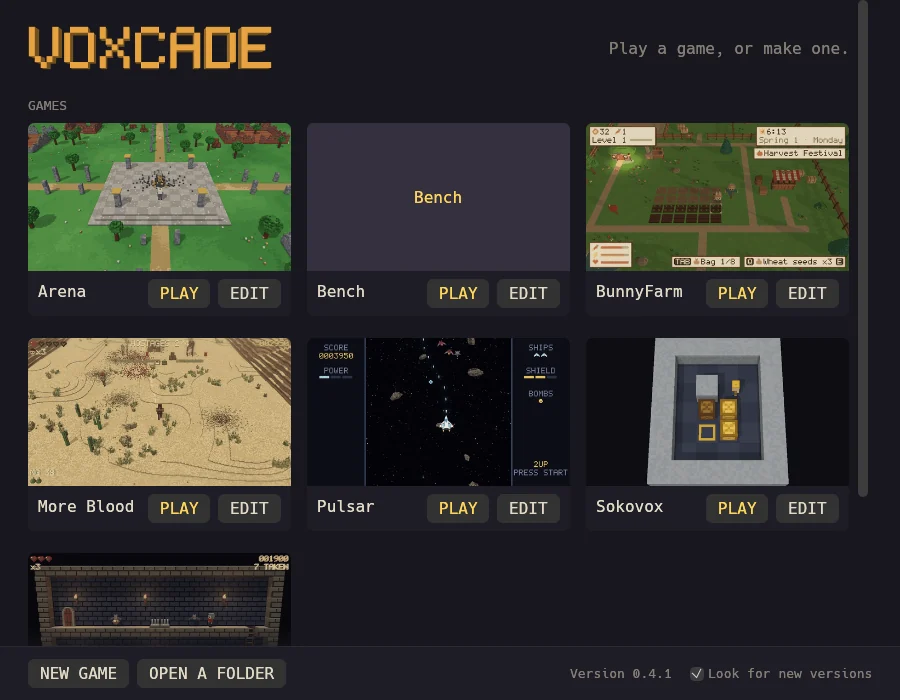
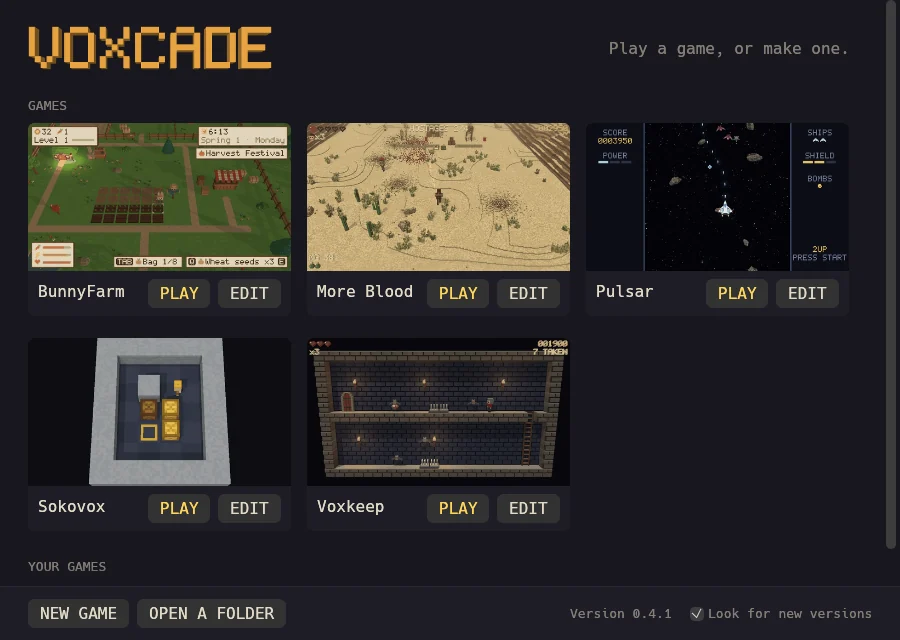
Five games: the Arena is no game to show

diff --git a/de/blog/0.4.1.html b/de/blog/0.4.1.html
@@ -4,7 +4,7 @@
 <meta charset="utf-8">
 <meta name="viewport" content="width=device-width, initial-scale=1">
 <title>Voxcade 0.4.1, die erste Version · Voxcade</title>
-<meta name="description" content="Sechs Spiele und die Werkstatt für eigene, für Windows und Linux: entpacken, starten, spielen.">
+<meta name="description" content="Fünf Spiele und die Werkstatt für eigene, für Windows und Linux: entpacken, starten, spielen.">
 <meta name="color-scheme" content="dark">
 <meta name="theme-color" content="#050509">
 <link rel="canonical" href="https://voxca.de/de/blog/0.4.1.html">
@@ -14,7 +14,7 @@
 <meta property="og:type" content="article">
 <meta property="og:site_name" content="Voxcade">
 <meta property="og:title" content="Voxcade 0.4.1, die erste Version · Voxcade">
-<meta property="og:description" content="Sechs Spiele und die Werkstatt für eigene, für Windows und Linux: entpacken, starten, spielen.">
+<meta property="og:description" content="Fünf Spiele und die Werkstatt für eigene, für Windows und Linux: entpacken, starten, spielen.">
 <meta property="og:url" content="https://voxca.de/de/blog/0.4.1.html">
 <meta property="og:locale" content="de_DE">
 <meta property="og:image" content="https://voxca.de/assets/img/og.png">
@@ -44,10 +44,10 @@
   <article class="wrap post">
     <p class="post-date"><a href="/de/blog/">Blog</a> · <time datetime="2026-11-10">10. November 2026</time></p>
     <h1>Voxcade 0.4.1, die erste Version</h1>
-    <p class="lead">Sechs Spiele und die Werkstatt für eigene, für Windows und Linux: entpacken, starten, spielen.</p>
-<p>Voxcade verlässt zum ersten Mal die Werkstatt. Version 0.4.1 ist ein Ordner mit sechs Spielen und allem, um eigene zu machen. Installieren musst du nichts: <a href="/de/#download">herunterladen</a>, entpacken und Voxcade doppelklicken. <a href="/de/install.html">So installierst du es</a> zeigt jeden Schritt, und der <a href="/de/quickstart.html">Schnellstart</a> bringt dich in fünf Minuten zu deinem ersten eigenen Spiel.</p>
+    <p class="lead">Fünf Spiele und die Werkstatt für eigene, für Windows und Linux: entpacken, starten, spielen.</p>
+<p>Voxcade verlässt zum ersten Mal die Werkstatt. Version 0.4.1 ist ein Ordner mit fünf Spielen und allem, um eigene zu machen. Installieren musst du nichts: <a href="/de/#download">herunterladen</a>, entpacken und Voxcade doppelklicken. <a href="/de/install.html">So installierst du es</a> zeigt jeden Schritt, und der <a href="/de/quickstart.html">Schnellstart</a> bringt dich in fünf Minuten zu deinem ersten eigenen Spiel.</p>
 <h2>Was drin ist</h2>
-<ul class="points"><li><strong>Der Launcher</strong>: Starte Voxcade, und es zeigt die Spiele. PLAY startet eins, EDIT öffnet es in der IDE, der Werkstatt, in der Spiele entstehen, und NEW GAME beginnt ein eigenes aus einer Vorlage: Jump &amp; Run, Shooter oder leer.</li><li><strong>Sechs Spiele</strong>, jedes ein Ordner aus Lua und Voxeln: More Blood (ein Run-and-Gun-Shooter, mit Pixel-Blut), Voxkeep (ein Jump &amp; Run in einer Burg bei Nacht), Sokovox (Sokoban mit den Microban-Rätseln von David W. Skinner), Pulsar (ein Weltraum-Shooter im Takt der Musik, zu zweit), BunnyFarm (ein Farmspiel) und die Arena, ein Hof zum Zerlegen. Jedes zeigt beim Start seine Tasten, für Tastatur oder Gamepad, je nachdem, womit du spielst.</li><li><strong>Die IDE</strong>: der Code, mit den Namen der API beim Tippen angeboten, das Spiel läuft gleich daneben, seine Fehler zeigen auf die Zeile; Szenarien starten einen Lauf an jeder Stelle; HELP zeigt die Lua-API an Beispielen; BUILD packt ein Spiel zum Weitergeben. Editoren für Voxel-Modelle und für Level aus Voxel-Blöcken gehören dazu.</li><li><strong>Zusammen spielen</strong>: mehrere an einem Bildschirm, im Heimnetz und übers Internet mit einem Code aus sechs Zeichen (IM INTERNET ÖFFNEN, dann BEITRETEN und CODE EINGEBEN). Keine Ports zu öffnen; Freunde können einem laufenden Spiel beitreten.</li><li><strong>Neue Versionen von selbst</strong>: Der Launcher meldet, wenn es eine gibt, und UPDATE NOW holt sie, prüft sie und setzt sie ein. Deine Spiele, Einstellungen und Spielstände bleiben.</li><li><strong>Sprachen</strong>: Die Menüs der Spiele sprechen Deutsch, Englisch und Französisch und richten sich nach deinem System; BunnyFarm spricht alle drei durchgehend. Der Launcher und die IDE sind auf Englisch.</li></ul>
+<ul class="points"><li><strong>Der Launcher</strong>: Starte Voxcade, und es zeigt die Spiele. PLAY startet eins, EDIT öffnet es in der IDE, der Werkstatt, in der Spiele entstehen, und NEW GAME beginnt ein eigenes aus einer Vorlage: Jump &amp; Run, Shooter oder leer.</li><li><strong>Fünf Spiele</strong>, jedes ein Ordner aus Lua und Voxeln: More Blood (ein Run-and-Gun-Shooter, mit Pixel-Blut), Voxkeep (ein Jump &amp; Run in einer Burg bei Nacht), Sokovox (Sokoban mit den Microban-Rätseln von David W. Skinner), Pulsar (ein Weltraum-Shooter im Takt der Musik, zu zweit) und BunnyFarm (ein Farmspiel). Jedes zeigt beim Start seine Tasten, für Tastatur oder Gamepad, je nachdem, womit du spielst.</li><li><strong>Die IDE</strong>: der Code, mit den Namen der API beim Tippen angeboten, das Spiel läuft gleich daneben, seine Fehler zeigen auf die Zeile; Szenarien starten einen Lauf an jeder Stelle; HELP zeigt die Lua-API an Beispielen; BUILD packt ein Spiel zum Weitergeben. Editoren für Voxel-Modelle und für Level aus Voxel-Blöcken gehören dazu.</li><li><strong>Zusammen spielen</strong>: mehrere an einem Bildschirm, im Heimnetz und übers Internet mit einem Code aus sechs Zeichen (IM INTERNET ÖFFNEN, dann BEITRETEN und CODE EINGEBEN). Keine Ports zu öffnen; Freunde können einem laufenden Spiel beitreten.</li><li><strong>Neue Versionen von selbst</strong>: Der Launcher meldet, wenn es eine gibt, und UPDATE NOW holt sie, prüft sie und setzt sie ein. Deine Spiele, Einstellungen und Spielstände bleiben.</li><li><strong>Sprachen</strong>: Die Menüs der Spiele sprechen Deutsch, Englisch und Französisch und richten sich nach deinem System; BunnyFarm spricht alle drei durchgehend. Der Launcher und die IDE sind auf Englisch.</li></ul>
 <h2>Gut zu wissen</h2>
 <ul class="points"><li><strong>Windows</strong> warnt vielleicht, es habe deinen PC geschützt: Das Programm ist noch nicht signiert. Wähle <em>Weitere Informationen</em>, dann <em>Trotzdem ausführen</em>.</li><li><strong>Linux</strong> braucht Vulkan-Grafiktreiber und ein aktuelles System (Ubuntu 24.04, Linux Mint 22, Fedora 40, Debian 13 oder neuer).</li><li><strong>macOS</strong> ist in dieser Version nicht dabei.</li><li>Ein Spiel übers Internet, das keine direkte Verbindung findet, läuft über unser Relay und kann ab und zu kurz stocken.</li></ul>
 <p>Die Lizenzen der Bibliotheken, die im Programm stecken, stehen in <code>THIRD-PARTY-LICENSES.txt</code> im Ordner.</p>

diff --git a/blog/0.4.1.html b/blog/0.4.1.html
@@ -4,7 +4,7 @@
 <meta charset="utf-8">
 <meta name="viewport" content="width=device-width, initial-scale=1">
 <title>Voxcade 0.4.1, the first release · Voxcade</title>
-<meta name="description" content="Six games and the workshop to make your own, for Windows and Linux: unpack it, start it, play.">
+<meta name="description" content="Five games and the workshop to make your own, for Windows and Linux: unpack it, start it, play.">
 <meta name="color-scheme" content="dark">
 <meta name="theme-color" content="#050509">
 <link rel="canonical" href="https://voxca.de/blog/0.4.1.html">
@@ -14,7 +14,7 @@
 <meta property="og:type" content="article">
 <meta property="og:site_name" content="Voxcade">
 <meta property="og:title" content="Voxcade 0.4.1, the first release · Voxcade">
-<meta property="og:description" content="Six games and the workshop to make your own, for Windows and Linux: unpack it, start it, play.">
+<meta property="og:description" content="Five games and the workshop to make your own, for Windows and Linux: unpack it, start it, play.">
 <meta property="og:url" content="https://voxca.de/blog/0.4.1.html">
 <meta property="og:locale" content="en_US">
 <meta property="og:image" content="https://voxca.de/assets/img/og.png">
@@ -44,10 +44,10 @@
   <article class="wrap post">
     <p class="post-date"><a href="/blog/">Blog</a> · <time datetime="2026-11-10">10 November 2026</time></p>
     <h1>Voxcade 0.4.1, the first release</h1>
-    <p class="lead">Six games and the workshop to make your own, for Windows and Linux: unpack it, start it, play.</p>
-<p>Voxcade is out of the workshop for the first time. Version 0.4.1 is one folder with six games and everything to make your own. There is nothing to install: <a href="/#download">download it</a>, unpack it and double-click Voxcade. <a href="/install.html">How to install</a> walks through it step by step, and the <a href="/quickstart.html">quick start</a> gets you to your own first game in five minutes.</p>
+    <p class="lead">Five games and the workshop to make your own, for Windows and Linux: unpack it, start it, play.</p>
+<p>Voxcade is out of the workshop for the first time. Version 0.4.1 is one folder with five games and everything to make your own. There is nothing to install: <a href="/#download">download it</a>, unpack it and double-click Voxcade. <a href="/install.html">How to install</a> walks through it step by step, and the <a href="/quickstart.html">quick start</a> gets you to your own first game in five minutes.</p>
 <h2>What is in it</h2>
-<ul class="points"><li><strong>The launcher</strong>: start Voxcade and it lists the games. PLAY starts one, EDIT opens it in the IDE, the workshop where games are made, and NEW GAME begins one of your own from a template: a jump &amp; run, a shooter, or empty.</li><li><strong>Six games</strong>, each a folder of Lua and voxels: More Blood (a run-and-gun shooter, with pixel blood), Voxkeep (a jump &amp; run in a castle at night), Sokovox (Sokoban with the Microban puzzles by David W. Skinner), Pulsar (a space shooter on the music's beat, for two), BunnyFarm (a farming game) and the Arena, a yard to blow apart. Each shows its keys as it begins, for the keyboard or the gamepad you play with.</li><li><strong>The IDE</strong>: the code with the API's names offered as you type, the game playing in place, its errors pointing at the line; scenarios that start a run anywhere; HELP with the Lua API by example; BUILD, which packs a game to pass on. Editors for voxel models and for levels of voxel blocks come with it.</li><li><strong>Playing together</strong>: several players at one screen, on the home network, and across the internet by a six-sign code (HOST ON THE INTERNET, then JOIN and TYPE A CODE). No ports to open; friends can join a game already running.</li><li><strong>New versions by themselves</strong>: the launcher says when one is there, and UPDATE NOW fetches it, checks it and puts it in place. Your games, settings and saves stay.</li><li><strong>Languages</strong>: the games' menus speak English, German and French and follow your system; BunnyFarm speaks all three throughout. The launcher and the IDE are in English.</li></ul>
+<ul class="points"><li><strong>The launcher</strong>: start Voxcade and it lists the games. PLAY starts one, EDIT opens it in the IDE, the workshop where games are made, and NEW GAME begins one of your own from a template: a jump &amp; run, a shooter, or empty.</li><li><strong>Five games</strong>, each a folder of Lua and voxels: More Blood (a run-and-gun shooter, with pixel blood), Voxkeep (a jump &amp; run in a castle at night), Sokovox (Sokoban with the Microban puzzles by David W. Skinner), Pulsar (a space shooter on the music's beat, for two) and BunnyFarm (a farming game). Each shows its keys as it begins, for the keyboard or the gamepad you play with.</li><li><strong>The IDE</strong>: the code with the API's names offered as you type, the game playing in place, its errors pointing at the line; scenarios that start a run anywhere; HELP with the Lua API by example; BUILD, which packs a game to pass on. Editors for voxel models and for levels of voxel blocks come with it.</li><li><strong>Playing together</strong>: several players at one screen, on the home network, and across the internet by a six-sign code (HOST ON THE INTERNET, then JOIN and TYPE A CODE). No ports to open; friends can join a game already running.</li><li><strong>New versions by themselves</strong>: the launcher says when one is there, and UPDATE NOW fetches it, checks it and puts it in place. Your games, settings and saves stay.</li><li><strong>Languages</strong>: the games' menus speak English, German and French and follow your system; BunnyFarm speaks all three throughout. The launcher and the IDE are in English.</li></ul>
 <h2>Good to know</h2>
 <ul class="points"><li><strong>Windows</strong> may warn that it protected your PC: the program is not signed yet. Choose <em>More info</em>, then <em>Run anyway</em>.</li><li><strong>Linux</strong> needs Vulkan graphics drivers and a current system (Ubuntu 24.04, Linux Mint 22, Fedora 40, Debian 13 or later).</li><li><strong>macOS</strong> is not part of this release.</li><li>A game across the internet that cannot connect directly goes through our relay, and may stall for a moment now and then.</li></ul>
 <p>The licences of the libraries built into the program are in <code>THIRD-PARTY-LICENSES.txt</code> in the folder.</p>

diff --git a/de/install.html b/de/install.html
@@ -59,7 +59,7 @@
         <li><h3>Entpacken</h3><p>Öffne den Ordner Downloads, klick mit der rechten Maustaste auf die Zip-Datei und wähle <em>Alle extrahieren</em>, dann <em>Extrahieren</em>. Ein neuer Ordner mit demselben Namen öffnet sich, darin <code>voxcade</code>. Starte es von dort, nicht aus der Zip-Datei: Dort läuft es nicht.</p>
           <p class="note">Weniger Warnungen später: Klick vor dem Entpacken mit der rechten Maustaste auf die Zip-Datei, wähle <em>Eigenschaften</em>, setz unten den Haken bei <em>Zulassen</em> und drück <em>OK</em>.</p></li>
         <li><h3>Voxcade starten</h3><p>Beim ersten Mal meldet Windows vielleicht, es habe deinen PC geschützt: Voxcade ist noch nicht signiert. Klick auf <em>Weitere Informationen</em>, dann auf <em>Trotzdem ausführen</em> (der große Knopf, <em>Nicht ausführen</em>, würde es aufhalten). Windows merkt es sich.</p><p>Doppelklick auf <code>voxcade</code> (Windows zeigt es vielleicht als <code>voxcade.exe</code>; als Typ steht <em>Anwendung</em> da). Der Launcher öffnet sich: PLAY neben einem Spiel startet es. Dahinter öffnet sich ein schwarzes Fenster: Es zeigt Meldungen und schließt sich mit Voxcade.</p>
-          <figure class="shot shot-small"><img src="/assets/img/launcher.webp" width="900" height="700" loading="lazy" alt="Der Launcher: die sechs Spiele, jedes mit PLAY und EDIT, darunter NEW GAME."></figure></li>
+          <figure class="shot shot-small"><img src="/assets/img/launcher.webp" width="900" height="640" loading="lazy" alt="Der Launcher: die fünf Spiele, jedes mit PLAY und EDIT, darunter NEW GAME."></figure></li>
       </ol>
       <div class="facts facts-two then">
         <div><h3>Dann: Spiele machen</h3><p>Im Launcher öffnet EDIT ein Spiel in der IDE, der Werkstatt, in der Spiele entstehen, und NEW GAME beginnt ein eigenes. Der <a href="/de/quickstart.html">Schnellstart</a> zeigt den Weg.</p></div>
@@ -78,7 +78,7 @@
         <li><h3>Voxcade starten</h3><p>Öffne den neuen Ordner und doppelklick auf <code>start-voxcade.sh</code>. Zeigt der Dateimanager stattdessen den Text, klick mit der rechten Maustaste darauf und wähle <em>Als Programm ausführen</em>, oder erlaube das Ausführen in den Eigenschaften. Der Launcher öffnet sich: PLAY neben einem Spiel startet es. Oder in einem Terminal:</p>
 <pre><code>cd voxcade-0.4.1-linux-x86_64
 ./voxcade</code></pre>
-          <figure class="shot shot-small"><img src="/assets/img/launcher.webp" width="900" height="700" loading="lazy" alt="Der Launcher: die sechs Spiele, jedes mit PLAY und EDIT, darunter NEW GAME."></figure>
+          <figure class="shot shot-small"><img src="/assets/img/launcher.webp" width="900" height="640" loading="lazy" alt="Der Launcher: die fünf Spiele, jedes mit PLAY und EDIT, darunter NEW GAME."></figure>
           <p class="note">Erscheint nichts, starte es wie oben aus einem Terminal: Dort steht, was fehlt. <code>GLIBC_2.39 not found</code> heißt, das System ist zu alt (Ubuntu 24.04, Linux Mint 22 und neuer gehen); die erste Zeile hiervon zeigt die Version:</p>
 <pre><code>ldd --version</code></pre></li>
       </ol>

diff --git a/install.html b/install.html
@@ -59,7 +59,7 @@
         <li><h3>Unpack</h3><p>Open the Downloads folder, right-click the zip file and choose <em>Extract All</em>, then <em>Extract</em>. A new folder of the same name opens, with <code>voxcade</code> in it. Start it from there, not from inside the zip: there it cannot run.</p>
           <p class="note">Fewer warnings later: before unpacking, right-click the zip file, choose <em>Properties</em>, tick <em>Unblock</em> at the bottom and press <em>OK</em>.</p></li>
         <li><h3>Start Voxcade</h3><p>The first time, Windows may say it protected your PC: Voxcade is not signed yet. Click <em>More info</em>, then <em>Run anyway</em> (the big button, <em>Don&#39;t run</em>, would stop it). Windows remembers it.</p><p>Double-click <code>voxcade</code> (Windows may show it as <code>voxcade.exe</code>; its type says <em>Application</em>). The launcher opens: PLAY beside a game starts it. A black window opens behind it: it shows messages and closes with Voxcade.</p>
-          <figure class="shot shot-small"><img src="/assets/img/launcher.webp" width="900" height="700" loading="lazy" alt="The launcher: the six games, each with PLAY and EDIT, and NEW GAME below."></figure></li>
+          <figure class="shot shot-small"><img src="/assets/img/launcher.webp" width="900" height="640" loading="lazy" alt="The launcher: the five games, each with PLAY and EDIT, and NEW GAME below."></figure></li>
       </ol>
       <div class="facts facts-two then">
         <div><h3>Then: make games</h3><p>In the launcher, EDIT opens a game in the IDE, the workshop where games are made, and NEW GAME begins one of your own. The <a href="/quickstart.html">quick start</a> shows the way.</p></div>
@@ -78,7 +78,7 @@
         <li><h3>Start Voxcade</h3><p>Open the new folder and double-click <code>start-voxcade.sh</code>. If the file manager shows the text instead, right-click it and choose <em>Run as a Program</em>, or allow running it in its properties. The launcher opens: PLAY beside a game starts it. Or in a terminal:</p>
 <pre><code>cd voxcade-0.4.1-linux-x86_64
 ./voxcade</code></pre>
-          <figure class="shot shot-small"><img src="/assets/img/launcher.webp" width="900" height="700" loading="lazy" alt="The launcher: the six games, each with PLAY and EDIT, and NEW GAME below."></figure>
+          <figure class="shot shot-small"><img src="/assets/img/launcher.webp" width="900" height="640" loading="lazy" alt="The launcher: the five games, each with PLAY and EDIT, and NEW GAME below."></figure>
           <p class="note">If nothing appears, start it from a terminal as above: it says what is wrong. <code>GLIBC_2.39 not found</code> means the system is too old (Ubuntu 24.04, Linux Mint 22 and newer work); the first line of this shows the version:</p>
 <pre><code>ldd --version</code></pre></li>
       </ol>

diff --git a/src/install.html b/src/install.html
@@ -44,7 +44,7 @@
         <li><h3>{{install.unpack_title}}</h3><p>{{install.win_unpack}}</p>
           <p class="note">{{install.win_unblock}}</p></li>
         <li><h3>{{install.start_title}}</h3><p>{{install.win_warn}}</p><p>{{install.win_start}}</p>
-          <figure class="shot shot-small"><img src="/assets/img/launcher.webp" width="900" height="700" loading="lazy" alt="{{install.launcher_alt}}"></figure></li>
+          <figure class="shot shot-small"><img src="/assets/img/launcher.webp" width="900" height="640" loading="lazy" alt="{{install.launcher_alt}}"></figure></li>
       </ol>
       <div class="facts facts-two then">
         <div><h3>{{install.ide_title}}</h3><p>{{install.win_ide}}</p></div>
@@ -63,7 +63,7 @@
         <li><h3>{{install.start_title}}</h3><p>{{install.linux_start}}</p>
 <pre><code>cd voxcade-{{release.version}}-linux-x86_64
 ./voxcade</code></pre>
-          <figure class="shot shot-small"><img src="/assets/img/launcher.webp" width="900" height="700" loading="lazy" alt="{{install.launcher_alt}}"></figure>
+          <figure class="shot shot-small"><img src="/assets/img/launcher.webp" width="900" height="640" loading="lazy" alt="{{install.launcher_alt}}"></figure>
           <p class="note">{{install.linux_silent}}</p>
 <pre><code>ldd --version</code></pre></li>
       </ol>

diff --git a/de/index.html b/de/index.html
@@ -79,7 +79,7 @@
   <section id="games" class="section">
     <div class="wrap">
       <h2>Spiele</h2>
-      <p class="lead">Fünf Spiele kommen mit der Engine, jedes ein Ordner aus Lua und Voxeln, jedes ein anderes Genre; ein sechstes, die Arena, ist ein Hof zum Zerlegen.</p>
+      <p class="lead">Fünf Spiele kommen mit der Engine, jedes ein Ordner aus Lua und Voxeln, jedes ein anderes Genre.</p>
       <div class="games">
         <article class="game game-wide" style="--c: var(--moreblood)">
           <img src="/assets/img/moreblood.webp" width="1280" height="720" loading="lazy" alt="Bild aus More Blood">
@@ -128,7 +128,7 @@
   <section id="download" class="section">
     <div class="wrap">
       <h2>Download</h2>
-      <p class="lead">Version 0.4.1 vom 10. November 2026: sechs Spiele und die IDE, die Werkstatt für eigene Spiele, in einem Ordner. Nichts zu installieren: entpacken und Voxcade per Doppelklick starten.</p>
+      <p class="lead">Version 0.4.1 vom 10. November 2026: fünf Spiele und die IDE, die Werkstatt für eigene Spiele, in einem Ordner. Nichts zu installieren: entpacken und Voxcade per Doppelklick starten.</p>
       <div class="downloads">
         <div class="download">
           <h3>Windows</h3>

diff --git a/index.html b/index.html
@@ -79,7 +79,7 @@
   <section id="games" class="section">
     <div class="wrap">
       <h2>Games</h2>
-      <p class="lead">Five games come with the engine, each a folder of Lua and voxels, each a different genre; a sixth, the Arena, is a yard to blow apart.</p>
+      <p class="lead">Five games come with the engine, each a folder of Lua and voxels, each a different genre.</p>
       <div class="games">
         <article class="game game-wide" style="--c: var(--moreblood)">
           <img src="/assets/img/moreblood.webp" width="1280" height="720" loading="lazy" alt="Screenshot of More Blood">
@@ -128,7 +128,7 @@
   <section id="download" class="section">
     <div class="wrap">
       <h2>Download</h2>
-      <p class="lead">Version 0.4.1 of 10 November 2026: six games, and the IDE, the workshop where you make your own, in one folder. Nothing to install: unpack it and start Voxcade with a double click.</p>
+      <p class="lead">Version 0.4.1 of 10 November 2026: five games, and the IDE, the workshop where you make your own, in one folder. Nothing to install: unpack it and start Voxcade with a double click.</p>
       <div class="downloads">
         <div class="download">
           <h3>Windows</h3>

diff --git a/de/quickstart.html b/de/quickstart.html
@@ -60,7 +60,7 @@
       <h2>Wie es weitergeht</h2>
       <ul class="points">
         <li>HELP in der IDE zeigt die Lua-API an Beispielen: ganze Spiele zum Kopieren und Ändern.</li>
-        <li>Die sechs Spiele liegen im Ordner <code>games</code> neben dem Programm: EDIT im Launcher öffnet eins, um zu sehen, wie es gemacht ist.</li>
+        <li>Die fünf Spiele liegen im Ordner <code>games</code> neben dem Programm: EDIT im Launcher öffnet eins, um zu sehen, wie es gemacht ist.</li>
         <li>Während ein Spiel läuft, öffnet die Taste links neben der 1 die Konsole: Eine Zeile Lua läuft im Spiel, zum Beispiel <code>player.state.score = 5000</code>.</li>
       </ul>
     </section>

diff --git a/quickstart.html b/quickstart.html
@@ -60,7 +60,7 @@
       <h2>Where next</h2>
       <ul class="points">
         <li>HELP in the IDE shows the Lua API by example: whole games to copy and change.</li>
-        <li>The six games lie in the <code>games</code> folder beside the program: EDIT in the launcher opens one, to see how it is made.</li>
+        <li>The five games lie in the <code>games</code> folder beside the program: EDIT in the launcher opens one, to see how it is made.</li>
         <li>While a game plays, the key left of 1 opens the console: a line of Lua runs in the game, <code>player.state.score = 5000</code> for instance.</li>
       </ul>
     </section>

diff --git a/de/blog/index.html b/de/blog/index.html
@@ -48,7 +48,7 @@
 <article class="post-item">
   <p class="post-date"><time datetime="2026-11-10">10. November 2026</time></p>
   <h2><a href="/de/blog/0.4.1.html">Voxcade 0.4.1, die erste Version</a></h2>
-  <p>Sechs Spiele und die Werkstatt für eigene, für Windows und Linux: entpacken, starten, spielen.</p>
+  <p>Fünf Spiele und die Werkstatt für eigene, für Windows und Linux: entpacken, starten, spielen.</p>
 </article>
     </div>
   </div>

diff --git a/blog/index.html b/blog/index.html
@@ -48,7 +48,7 @@
 <article class="post-item">
   <p class="post-date"><time datetime="2026-11-10">10 November 2026</time></p>
   <h2><a href="/blog/0.4.1.html">Voxcade 0.4.1, the first release</a></h2>
-  <p>Six games and the workshop to make your own, for Windows and Linux: unpack it, start it, play.</p>
+  <p>Five games and the workshop to make your own, for Windows and Linux: unpack it, start it, play.</p>
 </article>
     </div>
   </div>

diff --git a/posts/0.4.1/de.md b/posts/0.4.1/de.md
@@ -1,14 +1,14 @@
 ---
 title: Voxcade 0.4.1, die erste Version
 date: 2026-11-10
-summary: Sechs Spiele und die Werkstatt für eigene, für Windows und Linux: entpacken, starten, spielen.
+summary: Fünf Spiele und die Werkstatt für eigene, für Windows und Linux: entpacken, starten, spielen.
 ---
-Voxcade verlässt zum ersten Mal die Werkstatt. Version 0.4.1 ist ein Ordner mit sechs Spielen und allem, um eigene zu machen. Installieren musst du nichts: [herunterladen](/de/#download), entpacken und Voxcade doppelklicken. [So installierst du es](/de/install.html) zeigt jeden Schritt, und der [Schnellstart](/de/quickstart.html) bringt dich in fünf Minuten zu deinem ersten eigenen Spiel.
+Voxcade verlässt zum ersten Mal die Werkstatt. Version 0.4.1 ist ein Ordner mit fünf Spielen und allem, um eigene zu machen. Installieren musst du nichts: [herunterladen](/de/#download), entpacken und Voxcade doppelklicken. [So installierst du es](/de/install.html) zeigt jeden Schritt, und der [Schnellstart](/de/quickstart.html) bringt dich in fünf Minuten zu deinem ersten eigenen Spiel.
 
 ## Was drin ist
 
 - **Der Launcher**: Starte Voxcade, und es zeigt die Spiele. PLAY startet eins, EDIT öffnet es in der IDE, der Werkstatt, in der Spiele entstehen, und NEW GAME beginnt ein eigenes aus einer Vorlage: Jump & Run, Shooter oder leer.
-- **Sechs Spiele**, jedes ein Ordner aus Lua und Voxeln: More Blood (ein Run-and-Gun-Shooter, mit Pixel-Blut), Voxkeep (ein Jump & Run in einer Burg bei Nacht), Sokovox (Sokoban mit den Microban-Rätseln von David W. Skinner), Pulsar (ein Weltraum-Shooter im Takt der Musik, zu zweit), BunnyFarm (ein Farmspiel) und die Arena, ein Hof zum Zerlegen. Jedes zeigt beim Start seine Tasten, für Tastatur oder Gamepad, je nachdem, womit du spielst.
+- **Fünf Spiele**, jedes ein Ordner aus Lua und Voxeln: More Blood (ein Run-and-Gun-Shooter, mit Pixel-Blut), Voxkeep (ein Jump & Run in einer Burg bei Nacht), Sokovox (Sokoban mit den Microban-Rätseln von David W. Skinner), Pulsar (ein Weltraum-Shooter im Takt der Musik, zu zweit) und BunnyFarm (ein Farmspiel). Jedes zeigt beim Start seine Tasten, für Tastatur oder Gamepad, je nachdem, womit du spielst.
 - **Die IDE**: der Code, mit den Namen der API beim Tippen angeboten, das Spiel läuft gleich daneben, seine Fehler zeigen auf die Zeile; Szenarien starten einen Lauf an jeder Stelle; HELP zeigt die Lua-API an Beispielen; BUILD packt ein Spiel zum Weitergeben. Editoren für Voxel-Modelle und für Level aus Voxel-Blöcken gehören dazu.
 - **Zusammen spielen**: mehrere an einem Bildschirm, im Heimnetz und übers Internet mit einem Code aus sechs Zeichen (IM INTERNET ÖFFNEN, dann BEITRETEN und CODE EINGEBEN). Keine Ports zu öffnen; Freunde können einem laufenden Spiel beitreten.
 - **Neue Versionen von selbst**: Der Launcher meldet, wenn es eine gibt, und UPDATE NOW holt sie, prüft sie und setzt sie ein. Deine Spiele, Einstellungen und Spielstände bleiben.
